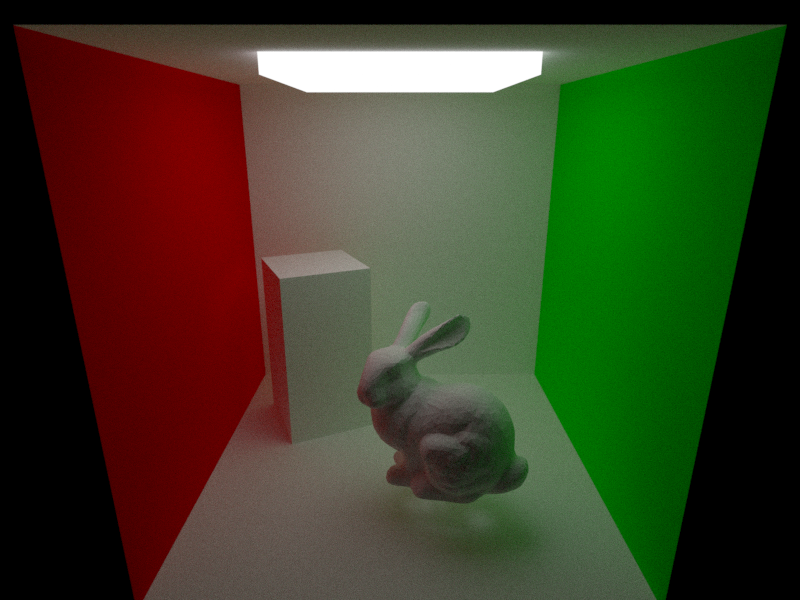
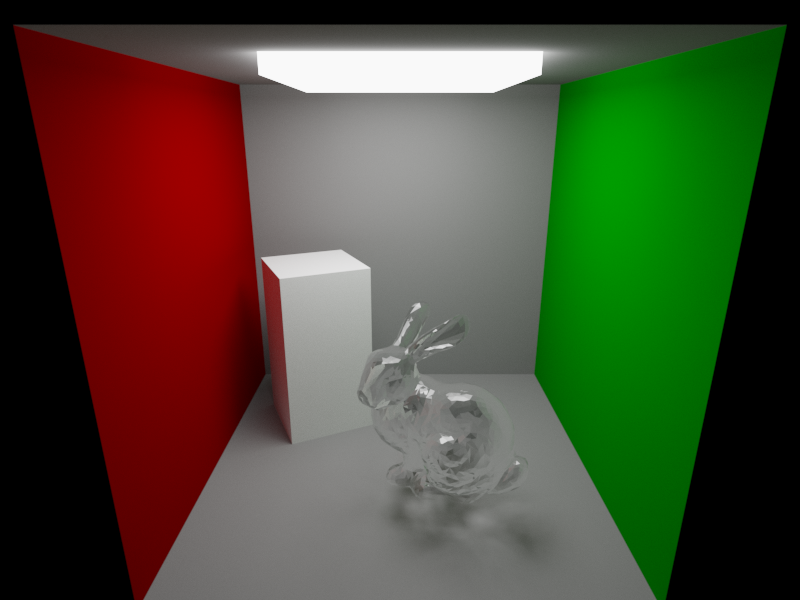
ガラスを追加

diff --git a/00_toy_cpu/toy_cpu/src/main.rs b/00_toy_cpu/toy_cpu/src/main.rs
@@ -5,10 +5,169 @@ use rand::distributions::Uniform;
 use rand::prelude::*;
 use rayon::prelude::*;
 
+struct Sample {
+    sample_dir_tangent: glam::Vec3,
+    bsdf_multiplied_cos_divided_by_pdf: glam::Vec3,
+}
+
 #[derive(Debug, Clone, Copy)]
 enum Material {
     Lambert { color: glam::Vec3 },
     Emissive { color: glam::Vec3, strength: f32 },
+    Glass { inner_eta: f32, outer_eta: f32 },
+}
+impl Material {
+    fn emissive(&self) -> glam::Vec3 {
+        match self {
+            Material::Lambert { .. } => glam::Vec3::ZERO,
+            Material::Emissive { color, strength } => *color * *strength,
+            Material::Glass { .. } => glam::Vec3::ZERO,
+        }
+    }
+
+    #[allow(dead_code)]
+    fn bsdf(
+        &self,
+        view_dir_tangent: glam::Vec3,
+        light_dir_tangent: glam::Vec3,
+        front_hit: bool,
+    ) -> glam::Vec3 {
+        match self {
+            Material::Lambert { color } => *color / std::f32::consts::PI,
+            Material::Emissive { .. } => glam::Vec3::ZERO,
+            Material::Glass {
+                inner_eta,
+                outer_eta,
+            } => {
+                let (eta_1, eta_2) = if front_hit {
+                    (*outer_eta, *inner_eta)
+                } else {
+                    (*inner_eta, *outer_eta)
+                };
+
+                let refract_dir = (eta_1 / eta_2)
+                    * (-view_dir_tangent + view_dir_tangent.dot(glam::Vec3::Y) * glam::Vec3::Y)
+                    - (1.0
+                        - (eta_1 / eta_2).powi(2)
+                            * (1.0 + view_dir_tangent.dot(glam::Vec3::Y).powi(2)))
+                    .sqrt()
+                        * glam::Vec3::Y;
+                let reflect_dir =
+                    -2.0 * -view_dir_tangent.dot(glam::Vec3::Y) * glam::Vec3::Y - view_dir_tangent;
+
+                let is_total_internal_reflection = (1.0
+                    - (eta_1 / eta_2).powi(2)
+                        * (1.0 + view_dir_tangent.dot(glam::Vec3::Y).powi(2)))
+                    < 0.0;
+
+                if is_total_internal_reflection {
+                    if reflect_dir.dot(light_dir_tangent) > 0.99999 {
+                        glam::Vec3::ONE
+                    } else {
+                        glam::Vec3::ZERO
+                    }
+                } else {
+                    if reflect_dir.dot(light_dir_tangent) > 0.99999
+                        || refract_dir.dot(light_dir_tangent) > 0.99999
+                    {
+                        glam::Vec3::ONE
+                    } else {
+                        glam::Vec3::ZERO
+                    }
+                }
+            }
+        }
+    }
+
+    fn sample(
+        &self,
+        view_dir_tangent: glam::Vec3,
+        front_hit: bool,
+        mut rng: &mut ThreadRng,
+    ) -> Option<Sample> {
+        match self {
+            Material::Lambert { color, .. } => {
+                let uniform = Uniform::new(0.0, 1.0);
+
+                let (u1, u2): (f32, f32) = (uniform.sample(&mut rng), uniform.sample(&mut rng));
+                let r = u1.sqrt();
+                let phi = 2.0 * std::f32::consts::PI * u2;
+                let sample_dir = glam::Vec3::new(r * phi.cos(), (1.0 - u1).sqrt(), r * phi.sin());
+
+                let sample = Sample {
+                    sample_dir_tangent: sample_dir,
+                    bsdf_multiplied_cos_divided_by_pdf: *color,
+                };
+
+                Some(sample)
+            }
+            Material::Emissive { .. } => None,
+            Material::Glass {
+                inner_eta,
+                outer_eta,
+            } => {
+                let (eta_1, eta_2) = if front_hit {
+                    (*outer_eta, *inner_eta)
+                } else {
+                    (*inner_eta, *outer_eta)
+                };
+
+                let refract_dir = (eta_1 / eta_2)
+                    * (-view_dir_tangent + view_dir_tangent.dot(glam::Vec3::Y) * glam::Vec3::Y)
+                    - (1.0
+                        - (eta_1 / eta_2).powi(2)
+                            * (1.0 + view_dir_tangent.dot(glam::Vec3::Y).powi(2)))
+                    .sqrt()
+                        * glam::Vec3::Y;
+                let reflect_dir =
+                    -2.0 * -view_dir_tangent.dot(glam::Vec3::Y) * glam::Vec3::Y - view_dir_tangent;
+
+                let is_total_internal_reflection = (1.0
+                    - (eta_1 / eta_2).powi(2)
+                        * (1.0 + (view_dir_tangent.dot(glam::Vec3::Y)).powi(2)))
+                    < 0.0;
+
+                if is_total_internal_reflection {
+                    let sample = Sample {
+                        sample_dir_tangent: reflect_dir,
+                        bsdf_multiplied_cos_divided_by_pdf: glam::Vec3::ONE,
+                    };
+                    return Some(sample);
+                }
+
+                let cos_theta_i = view_dir_tangent.dot(glam::Vec3::Y);
+                let cos_theta_o = refract_dir.dot(glam::Vec3::NEG_Y);
+                let rho_s = (eta_1 * cos_theta_i - eta_2 * cos_theta_o)
+                    / (eta_1 * cos_theta_i + eta_2 * cos_theta_o);
+                let rho_p = (eta_1 * cos_theta_o - eta_2 * cos_theta_i)
+                    / (eta_1 * cos_theta_o + eta_2 * cos_theta_i);
+                let fresnel = (rho_s.powi(2) + rho_p.powi(2)) / 2.0;
+
+                let uniform = Uniform::new(0.0, 1.0);
+                if uniform.sample(&mut rng) < fresnel {
+                    let sample = Sample {
+                        sample_dir_tangent: reflect_dir,
+                        bsdf_multiplied_cos_divided_by_pdf: glam::Vec3::ONE,
+                    };
+                    return Some(sample);
+                } else {
+                    let sample = Sample {
+                        sample_dir_tangent: refract_dir,
+                        bsdf_multiplied_cos_divided_by_pdf: glam::Vec3::ONE,
+                    };
+                    return Some(sample);
+                }
+            }
+        }
+    }
+
+    fn russian_roulette_probability(&self) -> f32 {
+        match self {
+            Material::Lambert { color } => color.x.max(color.y.max(color.z)),
+            Material::Emissive { .. } => 1.0,
+            Material::Glass { .. } => 1.0,
+        }
+    }
 }
 
 #[derive(Debug, Clone, Copy)]
@@ -469,7 +628,7 @@ impl Camera {
 
 fn path_trace(mut rng: &mut ThreadRng, ray: &Ray, bvh: &BVH, depth: u32) -> glam::Vec3 {
     const MIN_DEPTH: u32 = 15;
-    const MAX_DEPTH: u32 = 50;
+    const MAX_DEPTH: u32 = 150;
 
     let hit = bvh.traverse(ray);
 
@@ -480,59 +639,59 @@ fn path_trace(mut rng: &mut ThreadRng, ray: &Ray, bvh: &BVH, depth: u32) -> glam
             normal,
             material,
             ..
-        } => match material {
-            Material::Emissive { color, strength } => color * strength,
-            Material::Lambert { color } => {
-                let uniform = Uniform::new(0.0, 1.0);
+        } => {
+            let uniform = Uniform::new(0.0, 1.0);
+            let russian_roulette_probability = if depth <= MIN_DEPTH {
+                1.0
+            } else {
+                material.russian_roulette_probability()
+            };
 
-                let russian_roulette_probability = if depth <= MIN_DEPTH {
-                    1.0
-                } else {
-                    color.x.max(color.y.max(color.z))
-                };
-
-                if depth > MAX_DEPTH {
+            if depth > MAX_DEPTH {
+                return glam::Vec3::ZERO;
+            } else if depth > MIN_DEPTH {
+                if uniform.sample(&mut rng) >= russian_roulette_probability {
                     return glam::Vec3::ZERO;
-                } else if depth > MIN_DEPTH {
-                    if uniform.sample(&mut rng) >= russian_roulette_probability {
-                        return glam::Vec3::ZERO;
-                    }
                 }
+            }
 
-                let normal = if normal.dot(ray.dir) <= 0.0 {
-                    normal
-                } else {
-                    -normal
-                };
+            let (normal, front_hit) = if normal.dot(ray.dir) <= 0.0 {
+                (normal, true)
+            } else {
+                (-normal, false)
+            };
 
-                // cosine-weighted hemisphere sampling
-                let (u1, u2) = (uniform.sample(&mut rng), uniform.sample(&mut rng));
-                let r = u1.sqrt();
-                let phi = 2.0 * std::f32::consts::PI * u2;
-                let sample_dir = glam::Vec3::new(r * phi.cos(), (1.0 - u1).sqrt(), r * phi.sin());
+            let up = if 1.0 - normal.dot(glam::Vec3::Y).abs() < 0.0001 {
+                glam::Vec3::Z
+            } else {
+                glam::Vec3::Y
+            };
 
-                let up = if 1.0 - normal.dot(glam::Vec3::Y).abs() < 0.0001 {
-                    glam::Vec3::Z
-                } else {
-                    glam::Vec3::Y
-                };
+            let tangent_x = normal.cross(up).normalize();
+            let tangent_z = tangent_x.cross(normal).normalize();
+            let tangent_to_world = glam::Mat3::from_cols(tangent_x, normal, tangent_z);
+            let world_to_tangent = tangent_to_world.inverse();
 
-                let tangent_x = normal.cross(up).normalize();
-                let tangent_z = tangent_x.cross(normal).normalize();
-                let sample_dir = glam::Mat3::from_cols(tangent_x, normal, tangent_z)
-                    .mul_vec3(sample_dir)
+            let view_dir_tangent = world_to_tangent.mul_vec3(-ray.dir).normalize();
+
+            if let Some(sample) = material.sample(view_dir_tangent, front_hit, &mut rng) {
+                let sample_dir_world = tangent_to_world
+                    .mul_vec3(sample.sample_dir_tangent)
                     .normalize();
 
                 let ray = Ray {
                     origin: position,
-                    dir: sample_dir,
+                    dir: sample_dir_world,
                 };
 
-                // cosine-weightedなのでLambertのBRDFのPDFのPI/cosθでcosθが打ち消し合う
-                // また、BRDFのkd/PIとPDFのPI/cosθでPIが打ち消し合う
-                color * path_trace(&mut rng, &ray, bvh, depth + 1) / russian_roulette_probability
+                sample.bsdf_multiplied_cos_divided_by_pdf
+                    * path_trace(&mut rng, &ray, bvh, depth + 1)
+                    / (russian_roulette_probability)
+                    + material.emissive()
+            } else {
+                material.emissive()
             }
-        },
+        }
     }
 }
 
@@ -554,46 +713,46 @@ fn main() {
         ),
         (
             "../assets/bunny.obj",
-            Material::Lambert {
-                color: glam::vec3(1.0, 1.0, 1.0),
+            Material::Glass {
+                inner_eta: 1.45,
+                outer_eta: 1.0,
             },
         ),
         (
             "../assets/yuka.obj",
             Material::Lambert {
-                color: glam::vec3(1.0, 1.0, 1.0),
+                color: glam::vec3(0.25, 0.25, 0.25),
             },
         ),
         (
             "../assets/migi.obj",
             Material::Lambert {
-                color: glam::vec3(0.0, 1.0, 0.0),
+                color: glam::vec3(0.0, 0.25, 0.0),
             },
         ),
         (
             "../assets/hidari.obj",
             Material::Lambert {
-                color: glam::vec3(1.0, 0.0, 0.0),
+                color: glam::vec3(0.25, 0.0, 0.0),
             },
         ),
         (
             "../assets/tenjou.obj",
             Material::Lambert {
-                color: glam::vec3(1.0, 1.0, 1.0),
+                color: glam::vec3(0.25, 0.25, 0.25),
             },
         ),
         (
             "../assets/oku.obj",
             Material::Lambert {
-                color: glam::vec3(1.0, 1.0, 1.0),
+                color: glam::vec3(0.25, 0.25, 0.25),
             },
         ),
         (
             "../assets/light.obj",
             Material::Emissive {
                 color: glam::vec3(1.0, 1.0, 1.0),
-                // strength: 5.0,
-                strength: 1.0,
+                strength: 15.0,
             },
         ),
     ];
@@ -620,10 +779,10 @@ fn main() {
         60.0,
     );
 
-    let samples = 1024;
+    let samples = 2_u32.pow(15);
     let width = 800;
     let height = 600;
-    let l_white = 1.0_f32;
+    let l_white = 30.0_f32;
 
     let mut img = ImageBuffer::new(width, height);
 
